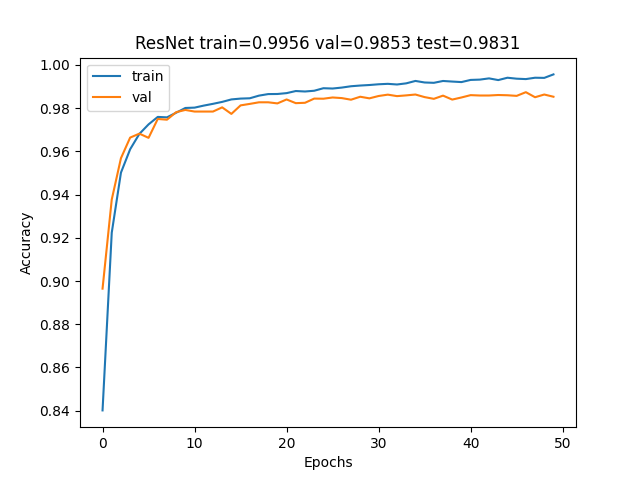
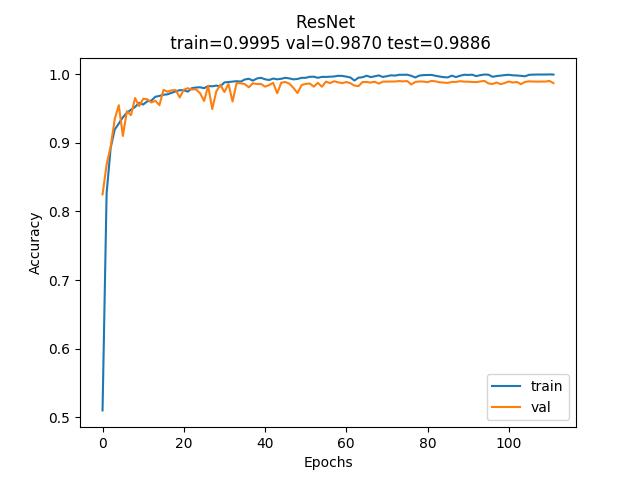
Added Focal Loss and optimal plots

diff --git a/focal_loss.py b/focal_loss.py
@@ -1,0 +1,168 @@
+import torch.nn as nn
+import torch.nn.functional as F
+import torch
+import math
+
+
+class Transformer_no_PE(nn.Module):
+
+    def __init__(self, d_model=200, nhead=8, dim_feedforward=2048, dropout=0.1, num_layers=6, num_classes=5):
+        super(Transformer_no_PE, self).__init__()
+
+        encoder_layer = nn.TransformerEncoderLayer(d_model, nhead, dim_feedforward, dropout)
+        self.transformer = nn.TransformerEncoder(encoder_layer, num_layers)
+        self.fc1 = nn.Linear(d_model, num_classes)
+
+    def forward(self, x):
+        x = self.transformer(x)
+        x = self.fc1(x)
+        return x
+
+
+class PositionalEncoding(nn.Module):
+
+    def __init__(self, d_model=200, pe_dropout=0.1, max_len=200):
+        super(PositionalEncoding, self).__init__()
+
+        self.dropout = nn.Dropout(pe_dropout)
+        position = torch.arange(max_len).unsqueeze(1)
+        div_term = torch.exp(torch.arange(0, d_model, 2) * (-math.log(10000.0) / d_model))
+        pe = torch.zeros(max_len, d_model)
+        pe[:, 0::2] = torch.sin(position * div_term)
+        pe[:, 1::2] = torch.cos(position * div_term)
+        pe = pe.unsqueeze(0)
+        self.register_buffer('pe', pe)
+
+    def forward(self, x):
+        x = x + self.pe[:, :x.size(1)]
+        return self.dropout(x)
+
+
+class Transformer(nn.Module):
+
+    def __init__(self, d_model=200, nhead=8, dim_feedforward=2048, t_dropout=0.1, pe_dropout=0.1, num_layers=6, num_classes=5):
+        super(Transformer, self).__init__()
+
+        self.pos_encoder = PositionalEncoding(d_model, pe_dropout)
+        encoder_layer = nn.TransformerEncoderLayer(d_model, nhead, dim_feedforward, t_dropout)
+        self.transformer = nn.TransformerEncoder(encoder_layer, num_layers)
+        self.fc1 = nn.Linear(d_model, num_classes)
+
+    def forward(self, x):
+        x = x.unsqueeze(0)
+        x = x.permute(1, 0, 2)
+        x = self.pos_encoder(x)
+        x = x.permute(1, 0, 2)
+        x = self.transformer(x)
+        x = x.mean(0)
+        x = self.fc1(x)
+        return x
+
+
+# ResNet based on paper from https://arxiv.org/abs/1805.00794
+# ECG Heartbeat Classification: A Deep Transferable Representation
+
+
+class ResidualBlock(nn.Module):
+
+    def __init__(self, in_channels=32, out_channels=32, kernel_size=5, stride=1, padding='same', pool_kernel_size=5, pool_stride=2):
+        super(ResidualBlock, self).__init__()
+
+        self.conv1 = nn.Conv1d(in_channels, out_channels, kernel_size, stride, padding)
+        self.conv2 = nn.Conv1d(in_channels, out_channels, kernel_size, stride, padding)
+        self.pool = nn.MaxPool1d(pool_kernel_size, pool_stride)
+
+    def forward(self, x):
+        a = F.relu(self.conv1(x))
+        x = F.relu(self.conv2(a) + x)
+        x = self.pool(x)
+        return x
+
+
+class ResNet(nn.Module):
+
+    def __init__(self, in_channels=32, out_channels=32, kernel_size=5, stride=1, padding='same', pool_kernel_size=5, pool_stride=2, num_res_blocks=5,
+                 dim_fc=32, num_classes=5):
+        super(ResNet, self).__init__()
+
+        self.conv = nn.Conv1d(1, out_channels, kernel_size, stride)
+
+        self.residual_blocks = nn.ModuleList()
+        for _ in range(num_res_blocks):
+            block = ResidualBlock(in_channels, out_channels, kernel_size, stride, padding, pool_kernel_size, pool_stride)
+            self.residual_blocks.append(block)
+
+        self.flatten = nn.Flatten()
+
+        with torch.no_grad():
+            d = torch.randn(1, 200)
+            d = self.conv(d)
+            for block in self.residual_blocks:
+                d = block(d)
+            dim_in = d.size(0) * d.size(1)
+
+        self.fc1 = nn.Linear(dim_in, dim_fc)
+        self.fc2 = nn.Linear(dim_fc, dim_fc)
+        self.fc3 = nn.Linear(dim_fc, num_classes)
+
+    def forward(self, x):
+
+        x = x.unsqueeze(1)
+        x = self.conv(x)
+
+        for block in self.residual_blocks:
+            x = block(x)
+
+        x = self.flatten(x)
+        x = F.relu(self.fc1(x))
+        x = self.fc2(x)
+        x = self.fc3(x)
+
+        return x
+
+
+class ResNetTransformer(nn.Module):
+
+    def __init__(self, in_channels=32, out_channels=32, kernel_size=5, stride=1, padding='same', pool_kernel_size=5, pool_stride=2, num_res_blocks=5,
+                 nhead=8, dim_feedforward=2048, t_dropout=0.1, pe_dropout=0.1, num_layers=6, num_classes=5):
+        super(ResNetTransformer, self).__init__()
+
+        self.conv = nn.Conv1d(1, out_channels, kernel_size, stride)
+
+        self.residual_blocks = nn.ModuleList()
+        for _ in range(num_res_blocks):
+            block = ResidualBlock(in_channels, out_channels, kernel_size, stride, padding, pool_kernel_size, pool_stride)
+            self.residual_blocks.append(block)
+
+        self.flatten = nn.Flatten()
+
+        with torch.no_grad():
+            d = torch.randn(1, 200)
+            d = self.conv(d)
+            for block in self.residual_blocks:
+                d = block(d)
+            d_model = d.size(0) * d.size(1)
+
+        self.pos_encoder = PositionalEncoding(d_model, pe_dropout)
+        encoder_layer = nn.TransformerEncoderLayer(d_model, nhead, dim_feedforward, t_dropout)
+        self.transformer = nn.TransformerEncoder(encoder_layer, num_layers)
+        self.fc1 = nn.Linear(d_model, num_classes)
+
+    def forward(self, x):
+
+        x = x.unsqueeze(1)
+        x = self.conv(x)
+
+        for block in self.residual_blocks:
+            x = block(x)
+
+        x = self.flatten(x)
+        x = x.unsqueeze(0)
+        x = x.permute(1, 0, 2)
+        x = self.pos_encoder(x)
+        x = x.permute(1, 0, 2)
+        x = self.transformer(x)
+        x = x.mean(0)
+        x = self.fc1(x)
+
+        return x

diff --git a/main.py b/main.py
@@ -6,9 +6,29 @@ import utils
 import models
 from scheduler import NoamScheduler
 from torch.optim.lr_scheduler import LambdaLR
+from focal_loss import FocalLoss, reweight
+from torch.utils.tensorboard import SummaryWriter
+from sklearn.metrics import classification_report
 
-def main(learning_rate=0.0001, batch_size=512, epochs=50, model_type='ResNetTransformer', plot = True):
 
+def get_predictions_and_labels(loader, model, device):
+	model.eval()
+	all_preds = []
+	all_labels = []
+
+	with torch.no_grad():
+		for inputs, labels in loader:
+			inputs, labels = inputs.to(device), labels.to(device)
+			outputs = model(inputs)
+			_, preds = torch.max(outputs, 1)  # get the predicted classes
+			all_preds.extend(preds.cpu().numpy())
+			all_labels.extend(labels.cpu().numpy())
+
+	return all_preds, all_labels
+import time
+def main(learning_rate=0.0001, batch_size=512, epochs=50, model_type='ResNetTransformer', plot = True, loss = 'FocalLoss', tensor_board = False):
+	if tensor_board:
+		writer = SummaryWriter('runs/' + model_type + '_' + '_' + time.strftime("%Y%m%d-%H%M%S"))
 	torch.manual_seed(42)
 
 	device = torch.device('cuda' if torch.cuda.is_available() else 'cpu')
@@ -21,16 +41,15 @@ def main(learning_rate=0.0001, batch_size=512, epochs=50, model_type='ResNetTran
 		model = models.Transformer(nhead= 40, dim_feedforward= 2048, t_dropout= 0.0, pe_dropout= 0.0, num_layers= 6)
 
 	if model_type == 'ResNet':
-		model = models.ResNet()
+		model = models.ResNet(in_channels=512, out_channels=512, kernel_size=7)
 
 	if model_type == 'ResNetTransformer':
-		model = models.ResNetTransformer()
-	
+		model = models.ResNetTransformer(in_channels=480, out_channels=480, kernel_size = 7, nhead=8, dim_feedforward= 4096, t_dropout=0.1, pe_dropout=0.0, num_layers = 3)
+
 	print(model)
 
 	model = model.to(device)
 
-	loss_fn = nn.CrossEntropyLoss()
 	optimizer = torch.optim.Adam(model.parameters(), lr=learning_rate)
 	scheduler = LambdaLR(optimizer,
 						 lr_lambda=NoamScheduler)  # lambda step: NoamScheduler(model_size, warmup_steps, step + 1))
@@ -39,13 +58,24 @@ def main(learning_rate=0.0001, batch_size=512, epochs=50, model_type='ResNetTran
 															'data/mitbih_test.csv',
 															batch_size,
 															val_split=0.2)
+	if loss == 'CrossEntropy':
+		loss_fn = nn.CrossEntropyLoss()
+	elif loss =='FocalLoss':
+		class_counts = [0, 0, 0, 0, 0]
+		for batch, (X, y) in enumerate(train_loader):
+			for n in range(5):
+				class_counts[n] += len(y[y == n])
+		per_cls_weights = reweight(class_counts, beta= 0.9999).to(device)
+		loss_fn = FocalLoss(weight=per_cls_weights, gamma = 1)
 
 	train_accuracy_curve = []
 	val_accuracy_curve = []
 
 	train_loss_curve = []
 	val_loss_curve = []
-
+	patience = 30
+	best_val_accuracy = 0.0
+	epochs_no_improve = 0
 	for t in range(epochs):
 
 		print(f"Epoch {t+1}\n-------------------------------")
@@ -56,10 +86,43 @@ def main(learning_rate=0.0001, batch_size=512, epochs=50, model_type='ResNetTran
 
 		train_accuracy_curve.append(train_accuracy)
 		val_accuracy_curve.append(val_accuracy)
-
 		train_loss_curve.append(train_loss)
 		val_loss_curve.append(val_loss)
+		preds, labels = get_predictions_and_labels(val_loader, model, device)
+		report = classification_report(labels, preds, output_dict=True, digits = 4)
+		if tensor_board:
+			writer.add_scalar('Learning Rate', optimizer.param_groups[0]['lr'], t)
+			f1_scores = {}
+			precision_scores = {}
+			recall_scores = {}
+			writer.add_scalars('Loss', {'train': train_loss, 'val': val_loss}, t)
+			writer.add_scalars('Accuracy', {'train': train_accuracy, 'val': val_accuracy}, t)
+			for class_label, metrics in report.items():  # check if the label is a number (class index)
+				if class_label == 'accuracy':
+					continue
+				f1_scores[class_label] = metrics['f1-score']
+				precision_scores[class_label] = metrics['precision']
+				recall_scores[class_label] = metrics['recall']
+			writer.add_scalars('F1_score', f1_scores, t)
+			writer.add_scalars('Precision', precision_scores, t)
+			writer.add_scalars('Recall', recall_scores, t)
+			print(classification_report(labels, preds, digits = 4))
 
+		if val_accuracy > best_val_accuracy:
+			best_val_accuracy = val_accuracy
+			epochs_no_improve = 0
+			torch.save(model.state_dict(), 'models/%s_best.pt' % model_type)
+		else:
+			epochs_no_improve += 1
+			if epochs_no_improve >= patience:
+				print("Early stopping at epoch %d" % t)
+				break
+
+
+		x = 1
+
+	writer.close()
+	model.load_state_dict(torch.load('models/%s_best.pt' % model_type))
 	test_accuracy, _ = utils.evaluate(test_loader, model, loss_fn, device)
 	print(f"Test Accuracy: {test_accuracy:>8f}")
 	if plot:
@@ -80,7 +143,14 @@ def main(learning_rate=0.0001, batch_size=512, epochs=50, model_type='ResNetTran
 		plt.legend()
 		plt.savefig(f'plots/{model.__class__.__name__}_loss_curve.png')
 		plt.close()
+		torch.save(model.state_dict(), 'models/%s.pt' % model_type)
+
+		report = classification_report(labels, preds, digits = 4)
+		print(report)
+
+		x = 1
 
 if __name__ == "__main__":
-	main(model_type='Transformer', epochs = 50, learning_rate = 1e-2)
-	x= 1
+	for m_type in ['ResNetTransformer', 'ResNet', 'Transformer', 'Transformer_no_PE']:
+		main(model_type=m_type, epochs = 1500, learning_rate = 5e-2, loss = 'FocalLoss', tensor_board=True, plot=True)
+		x= 1
